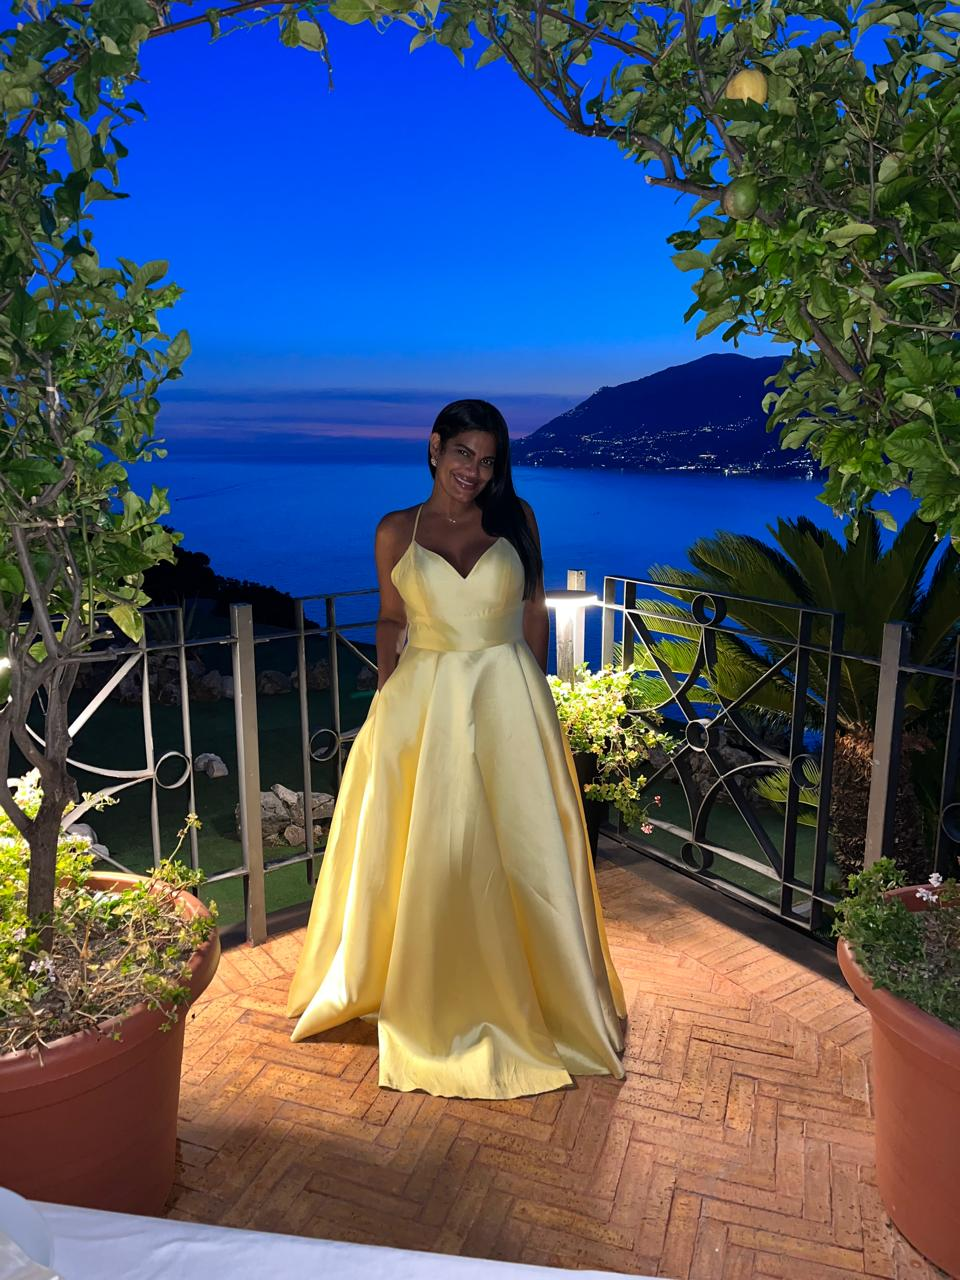
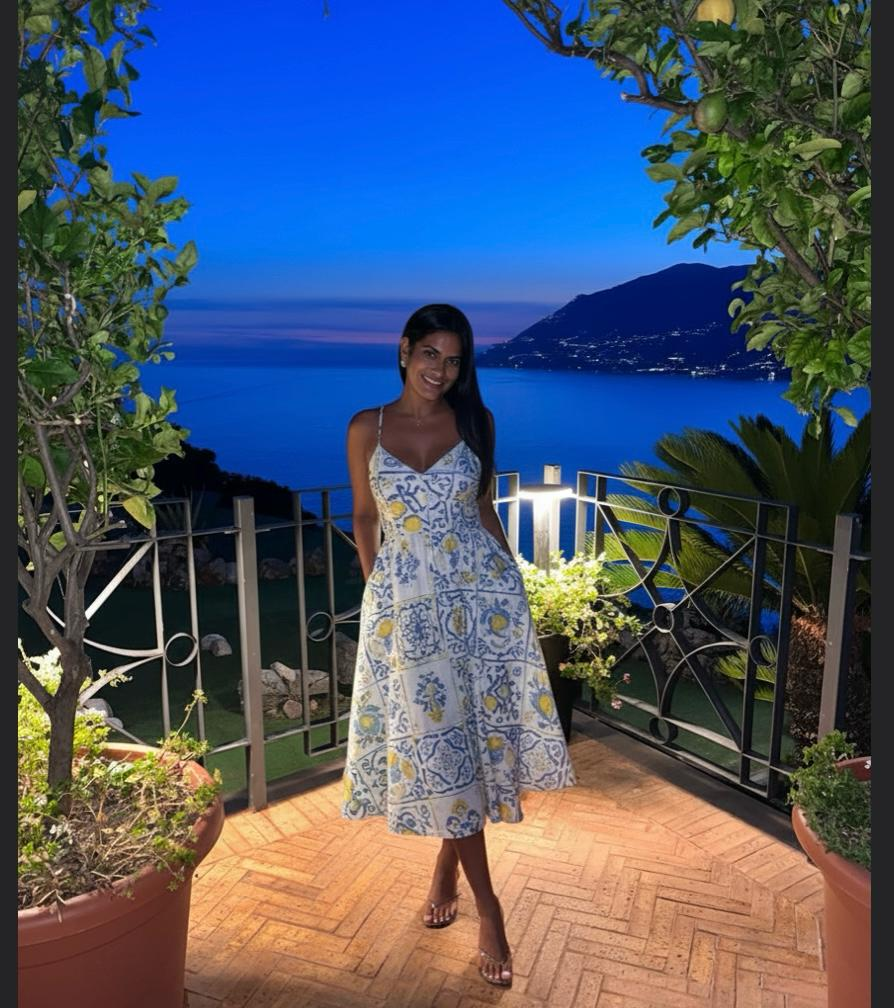
Update toccaowner.jpg with new image and ensure only this image shows in Why Choose Us section

diff --git a/index.html b/index.html
@@ -99,8 +99,7 @@
                         not as a tourist, but as part of its rhythm.</p>
                     </div>
                 <div class="why-us-image-grid">
-                    <img src="imagenes/foto1.jpg" alt="View of the Amalfi Coast 1">
-                    <img src="imagenes/toccaowner.jpg" alt="Tocca Amalfi Owner">
+                    <img src="imagenes/toccaowner.jpg" alt="A smiling woman stands on a sunlit terrace overlooking the Amalfi Coast, with colorful houses and the blue sea in the background. The scene feels warm and welcoming, capturing a sense of joy and belonging.">
                 </div>
             </div>
         </section>
